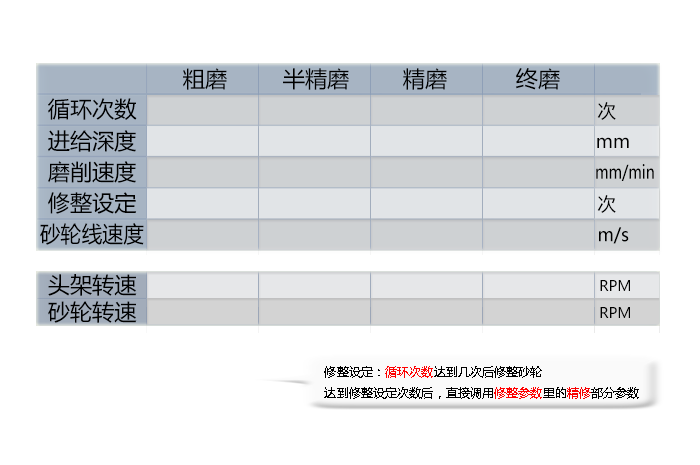
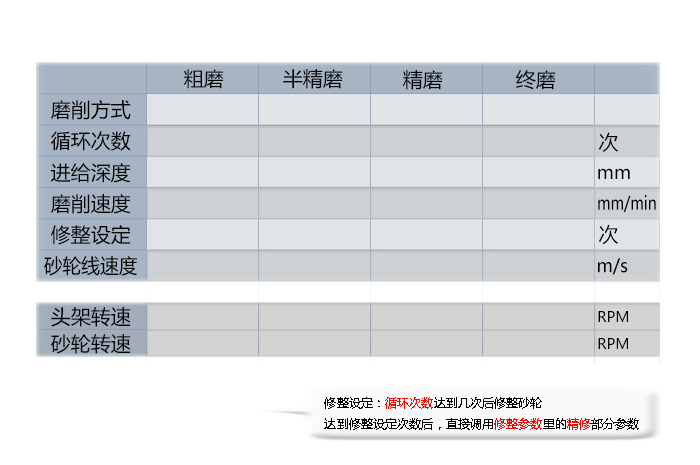
外圆端面磨削增加来回/保持磨削方式选择

Changed region(s): [[0.03, 0.1204, 0.96, 0.9634], [0.42, 0.8129, 0.45, 0.843]]

diff --git a/Source_Library/HMI/hlp/chs/UserGuide/section_27.html b/Source_Library/HMI/hlp/chs/UserGuide/section_27.html
@@ -538,6 +538,23 @@
                             新砂轮时砂轮和金刚笔修整位置，此参数需保证第一次修整时金刚笔从起点到终点修整过程中金刚笔不要接触砂轮<br>
                         </p>
                     </div>
+                    <div class="parameterCell">
+                        <table border="1" cellspacing="0" cellpadding="2" width="100%">
+                            <tr>
+                                <td><a class="var_mark" name="S27D34">磨削方式</a></td>
+                                <td>推荐设置：根据需要选择</td>
+                            </tr>
+                            <tr>
+                                <td>取值范围</td>
+                                <td>来回/保持</td>
+                            </tr>
+                        </table>
+                        <p class="parameterExplain">
+                            此参数为磨削时的动作<br>
+                            来回：进刀后，砂轮垂直从磨削起点移动到磨削终点，再反向回来<br>
+                            保持：砂轮持续进刀，不进行垂直移动磨削<br>
+                        </p>
+                    </div>
                 </div>
             </div>
         </div>

diff --git a/Source_Library/HMI/hlp/chs/UserGuide/section_26.html b/Source_Library/HMI/hlp/chs/UserGuide/section_26.html
@@ -568,6 +568,23 @@
                             磨削台阶需要在外圆磨削后进行，台阶磨削起始位置为外圆当前磨削位置<br>
                         </p>
                     </div>
+                    <div class="parameterCell">
+                        <table border="1" cellspacing="0" cellpadding="2" width="100%">
+                            <tr>
+                                <td><a class="var_mark" name="S26D36">磨削方式</a></td>
+                                <td>推荐设置：根据工件长短</td>
+                            </tr>
+                            <tr>
+                                <td>取值范围</td>
+                                <td>来回/保持</td>
+                            </tr>
+                        </table>
+                        <p class="parameterExplain">
+                            此参数为磨削时的动作<br>
+                            来回：进刀后，砂轮水平从磨削起点移动到磨削终点，再反向回来<br>
+                            保持：砂轮持续进刀，不进行水平移动磨削<br>
+                        </p>
+                    </div>
                 </div>
             </div>
         </div>
